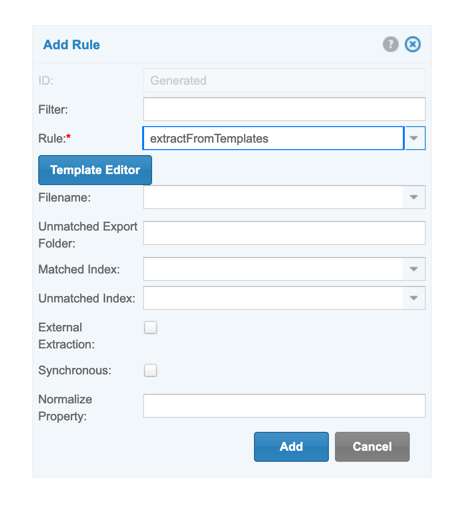
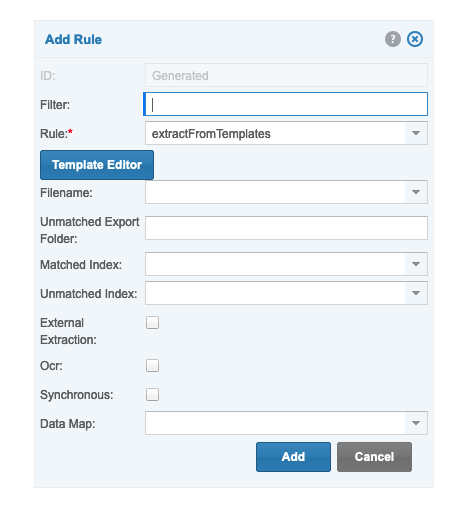
feat: New notes on remote extraction

diff --git a/configuration/templateless-extraction.md b/configuration/templateless-extraction.md
@@ -17,8 +17,12 @@ Following the guide: [Template Extraction](configuration/template-extraction.md)
 
 ![Template Rule](../images/tmp-ext.png)   
 
-External Extraction
+External Extraction:
 * Uses remote extraction instead
+
+Ocr:
+* If ticked, extraction will include an ocr'd version of the pdf
+
 Asynchronous: 
 * Off: Will post and receive feedback immediately
   * Event: document.external_extraction - indicates the extraction is done
@@ -27,8 +31,25 @@ Asynchronous:
     * document.extraction_requested - indicates request has been sent
     * document.extraction_received - indicates request has been received
     * document.failed_analyzed_expenses - failed to extract
+    * document.external_extraction - for sync extraction process complete
+    * document.document_ocr_success - indicates ocr has been dropped
+
 Normalize Property:
-    * a name of a property with key map values, eg: `test.normalize.keys=SUB_TOTAL=sub_total`
+  * mapping file of value sets, example:
+  * Create in node: `System/data maps`
+
+```csv
+field,index,format,expression,replacement
+INVOICE_NUMBER,invoice_number,text,
+INVOICE_DATE,invoice_date,date,dd/MM/yyyy
+INVOICE_TOTAL,total_incl,double,"0,0.00"
+ADDRESS,home_address,text,," "
+ADDRESS_BLOCK,address,text,
+RECEIVER_NAME,recipient,text,
+CITY,city_or_town,text,,
+VENDOR_VAT_NUMBER,vat_number,text,,
+INVOICE_RECEIPT_DATE,invoice_date,date,dd/MM/yyyy,
+```
 
 ## Server Side Configuration
 
